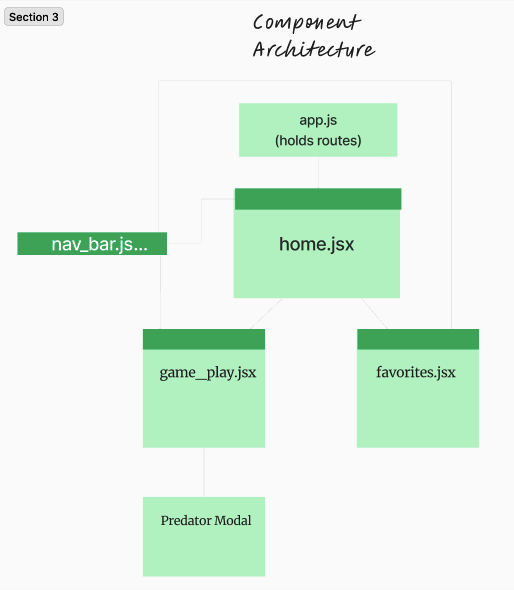
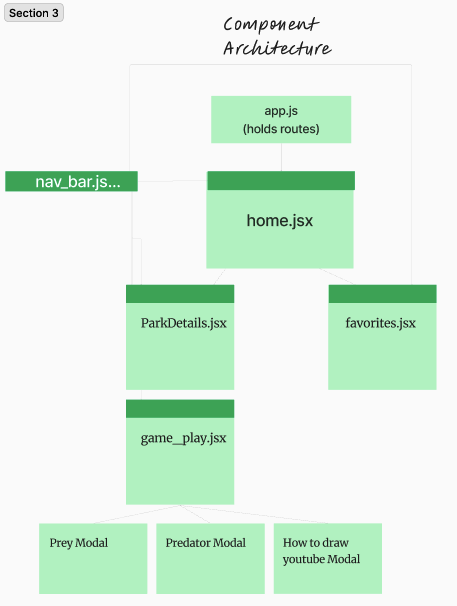
adjusts readme to reflect current appication state

diff --git a/README.md b/README.md
@@ -1,4 +1,4 @@
-<h1 align="center"> Down the Rabbit Hole </h1>
+<h1> Down the Rabbit Hole </h1>
 
 
 [Down the Rabbit Hole Deployed Link](https://down-the-rabbit-hole.netlify.app/)
@@ -7,30 +7,49 @@
 
 [Figma Planning Project Board](https://www.figma.com/board/ynLaURjRxnlzNZjrNNcEDD/Down-the-Rabbit-Hole?node-id=0-1&t=okU4GmhfPWX158Hi-1)
 
-"Down the Rabbit Hole” is an engaging educational web application designed to immerse users in the fascinating world of animals and their ecosystems. Users can explore a wealth of animal facts about rabbits, as well as learn about the various predators that hunt them. The interactive platform allows users to follow an educational food chain, discovering a diverse array of animals leading up to apex predators.
+Down the Rabbit Hole is an engaging and educational web application primarily designed for elementary students but enjoyable for all ages. The platform immerses users in the fascinating world of animals and their ecosystems, allowing them to search through various national parks to discover unique creatures and learn about their habitats and behaviors. Users can explore an animal’s role in the food chain by viewing its predators and prey, with the ability to click through and learn about each connection. A creative “How to Draw the Animal” feature adds a hands-on element, making learning fun and interactive. Additionally, users can save their favorite animals for later research with the convenient favorites button. Whether for young learners, nature enthusiasts, or aspiring artists, Down the Rabbit Hole offers an enriching and accessible experience.
 
 <img src="./public/assets/home.png" alt="Home page view" width="50%">
 
-<img src="./public/assets/components.png" alt="Home page view" width="50%">
+<img src="./public/assets/components.png" alt="Home page view" width="40%">
 
-<img src="./public/assets/homepage_mvp.png" alt="Home page view" width="50%">
-
-<img src="./public/assets/gameplay_mvp.png" alt="Home page view" width="50%">
+<img src="./public/assets/mvp-mocKup.png" alt="Home page view" width="50%">
 
 
-<h2 align="center"> Context </h2>
 
-“Down the Rabbit Hole” was developed as a consultancy project, inspired by one team member’s vision and brought to life by a collaborative team of five. Over a two-week period, we transformed the initial idea into a fully functional web application.
 
-Each team member participated in all phases of the project, from ideation to development and presentation. Regular meetings facilitated discussions on progress and challenges, ensuring that everyone had a comprehensive understanding of the codebase and project architecture. This collaborative effort resulted in an engaging educational platform that explores animal ecosystems.
+<h2> Context </h2>
 
-<h2 align="center"> Tech </h2>
+Down the Rabbit Hole was developed as a consultancy project, inspired by one team member’s vision and brought to life by a collaborative team of five. Over an initial two-week sprint, we transformed the idea into a fully functional web application.
+
+Following the successful completion of Phase 1, we embarked on a Phase 2, two-week sprint to implement extensive updates in preparation for a demo competition. These updates included the ability to select a national park to learn more about it and discover which animals inhabit it, a predator-and-prey navigation system, and a “How to Draw the Animal” section.
+
+Each team member participated in all phases of the project, from ideation to development and presentation. Regular meetings facilitated discussions on progress and challenges, ensuring that everyone had a comprehensive understanding of the codebase and project architecture. This collaborative effort resulted in an engaging, dynamic educational platform that explores animal ecosystems and highlights the power of teamwork.
+
+<!-- <h2> Tech Stack </h2>
 
 BE - Ruby on Rails, tested with RSpec, simplecov, webmock & vcr
 
-FE - Built with React and tested with Cypress
+FE - Built with React and tested with Cypress -->
 
-<h2 align="center"> Installation </h2>
+## Tech Stack
+
+### Backend
+- <img src="https://cdn.jsdelivr.net/gh/devicons/devicon/icons/rails/rails-plain-wordmark.svg" alt="Ruby on Rails" width="50" height="50"/> 
+
+  - Tested with:
+    - <img src="https://cdn.jsdelivr.net/gh/devicons/devicon/icons/rspec/rspec-original-wordmark.svg" alt="RSpec" width="70" height="70"/>  
+    - SimpleCov  
+    -  VCR  
+    - <img src="https://avatars.githubusercontent.com/u/323164?s=200&v=4" alt="WebMock" width="50" height="50"/> WebMock  
+
+### Frontend
+- <img src="https://cdn.jsdelivr.net/gh/devicons/devicon/icons/react/react-original-wordmark.svg" alt="React" width="50" height="50"/>
+
+  - Tested with:
+    - <img src="https://avatars.githubusercontent.com/u/8908513?s=200&v=4" alt="Cypress" width="50" height="50"/>
+
+<h2> Installation </h2>
 
 1. Fork and clone this BE repo 
 [Down The Rabbit Hole BE repo](https://github.com/Down-the-Rabbit-Holes/down_the_rabbit_hole_BE)
@@ -48,20 +67,27 @@ FE - Built with React and tested with Cypress
 8.  Enter `control + c` in your terminal to stop running the React app at any time
 9. To run Cypress tests, use `npx cypress open`
 
-<h2 align="center"> Usage </h2>
+<h2> Usage </h2>
+
+
+### Overview
+
+<img src="./public/assets/main-play.gif" alt="Home page view" width="50%">
 
 ### Accessibility
 
 <img src="./public/assets/accessibility.gif" alt="Home page view" width="50%">
 
-### Main Play
+### Animal Details
 
-<img src="./public/assets/main_play.gif" alt="Home page view" width="50%">
+<img src="./public/assets/game-play-and-favorites.gif" alt="Home page view" width="50%">
 
-<img src="./public/assets/responsive_design.gif" alt="Home page view" width="50%">
+### Responsive Design
+
+<img src="./public/assets/responsive-design.gif" alt="Home page view" width="50%">
 
 
-<h2 align="center"> Contributors </h2>
+<h2> Contributors </h2>
 
 Candice Cirbo - [linkedin](https://www.linkedin.com/in/candicecirbo/) - [gitHub](https://github.com/CCirbo) - ccirbots@gmail.com
 
@@ -73,7 +99,11 @@ Renee Messersmith - [linkedin](https://www.linkedin.com/in/reneemessersmith/) - 
 
 Stefan Bloom - [linkedin](https://www.linkedin.com/in/stefanjbloom/) - [gitHub](https://github.com/stefanjbloom) - stefanjbloom88@gmail.com
 
-<h2 align="center"> Learning Goals </h2>
+<<<<<<<<<>>>>>>>>
+
+Special thanks to [Lito Croy](https://www.linkedin.com/in/litocroy/) for his word-smithing of the catchphrase "Eat Me" for our predator button
+
+<h2> Learning Goals </h2>
 
 - **Project Ideation and Execution**: Develop a web application from a student-led idea, focusing on solving real-world problems.
 
